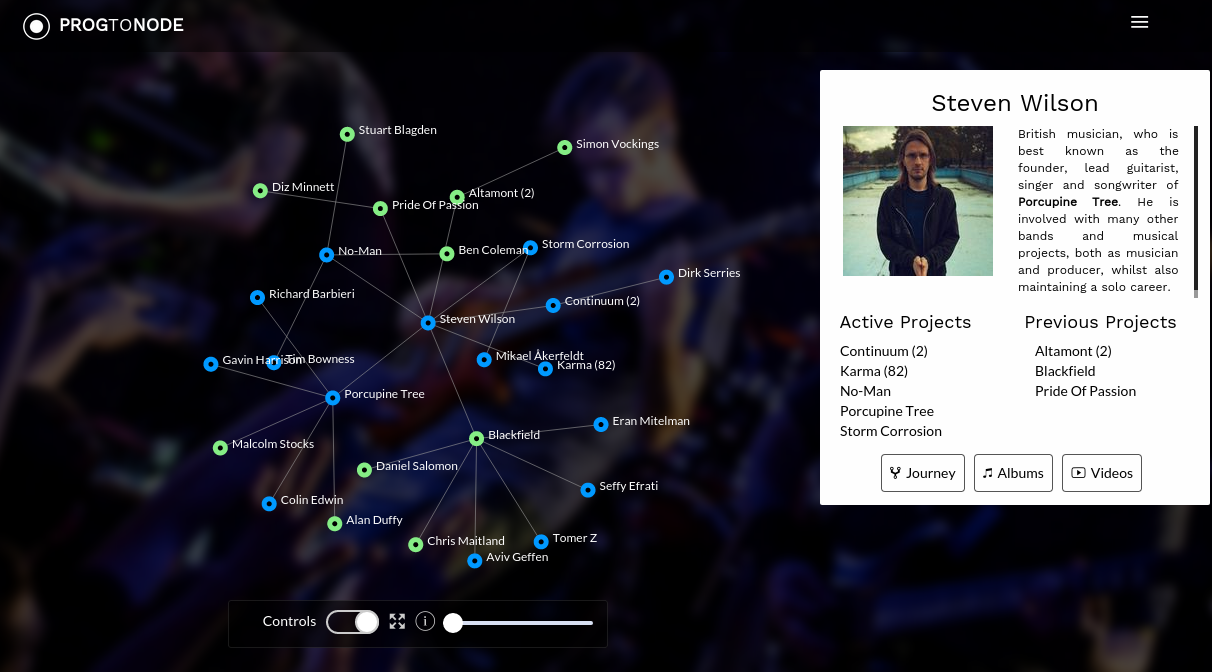
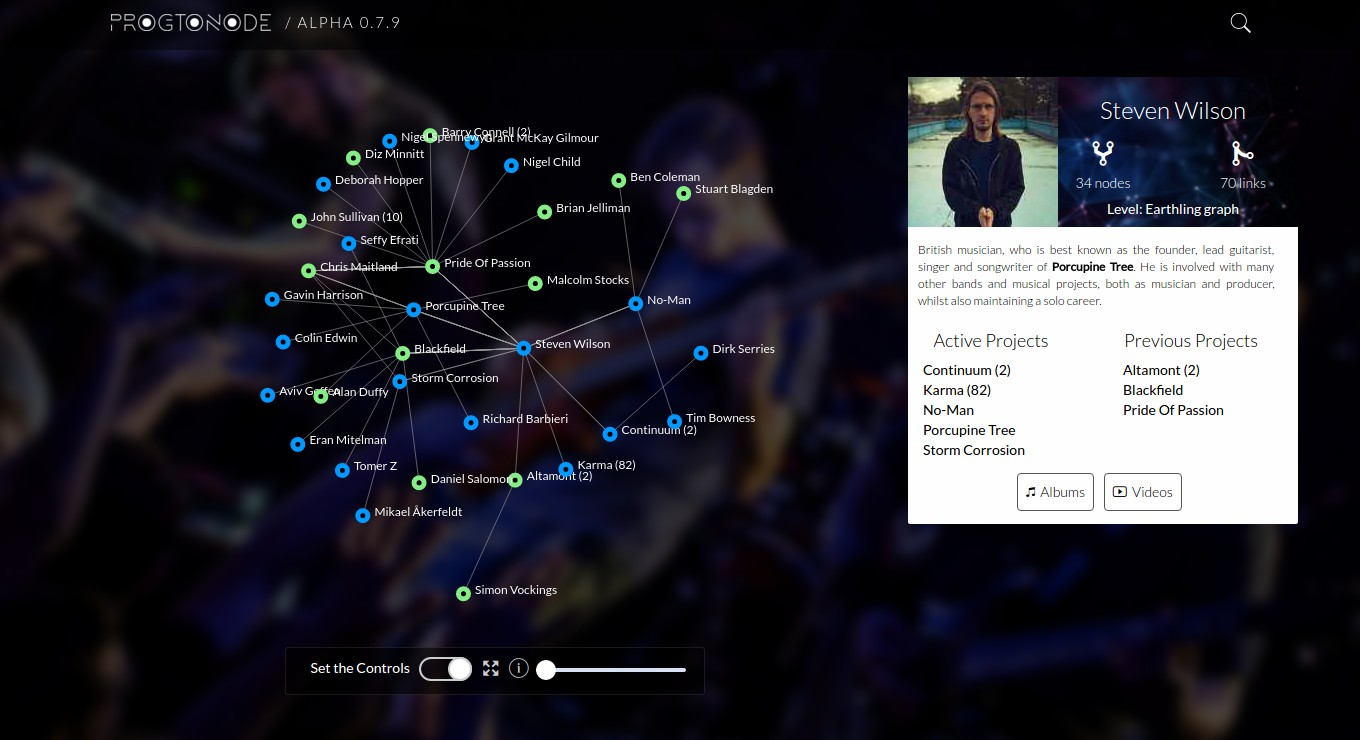
alpha 0.7.9 fix link twitter y cambio screenshot

diff --git a/index.html b/index.html
@@ -80,7 +80,7 @@
                             <div class="row">
                                 <div class="col-md-12 hidden-lg hidden-md hidden-sm text-left">
                                     <a href="https://www.instagram.com/progtonode/" target="blank"><i class="social ion-social-instagram text-inverse"></i></a>
-                                    <a href="https://www.twitter/progtonnode"><i class="social ion-social-twitter text-inverse"></i></a>
+                                    <a href="https://twitter.com/progtonode"><i class="social ion-social-twitter text-inverse"></i></a>
                                     <a href="https://www.facebook.com/progtonode/" target="blank"><i class="social ion-social-facebook text-inverse"></i></a>
                                     <a href="https://github.com/rafaelbecks/progtonode" target="blank"><i class="social ion-social-github text-inverse"></i></a>
                                 </div>
@@ -88,7 +88,7 @@
                             <div class="row">
                                 <div class="col-md-12 hidden-xs text-right">
                                     <a href="https://www.instagram.com/progtonode/" target="blank"><i class="social ion-social-instagram text-inverse"></i></a>
-                                    <a href="#"><i class="social ion-social-twitter text-inverse"></i></a>
+                                    <a href="https://twitter.com/progtonode" target="blank"><i class="social ion-social-twitter text-inverse"></i></a>
                                     <a href="https://www.facebook.com/progtonode/" target="blank"><i class="social ion-social-facebook text-inverse"></i></a>
                                     <a href="https://github.com/rafaelbecks/progtonode" target="blank"><i class="social ion-social-github text-inverse"></i></a>
                                 </div>
